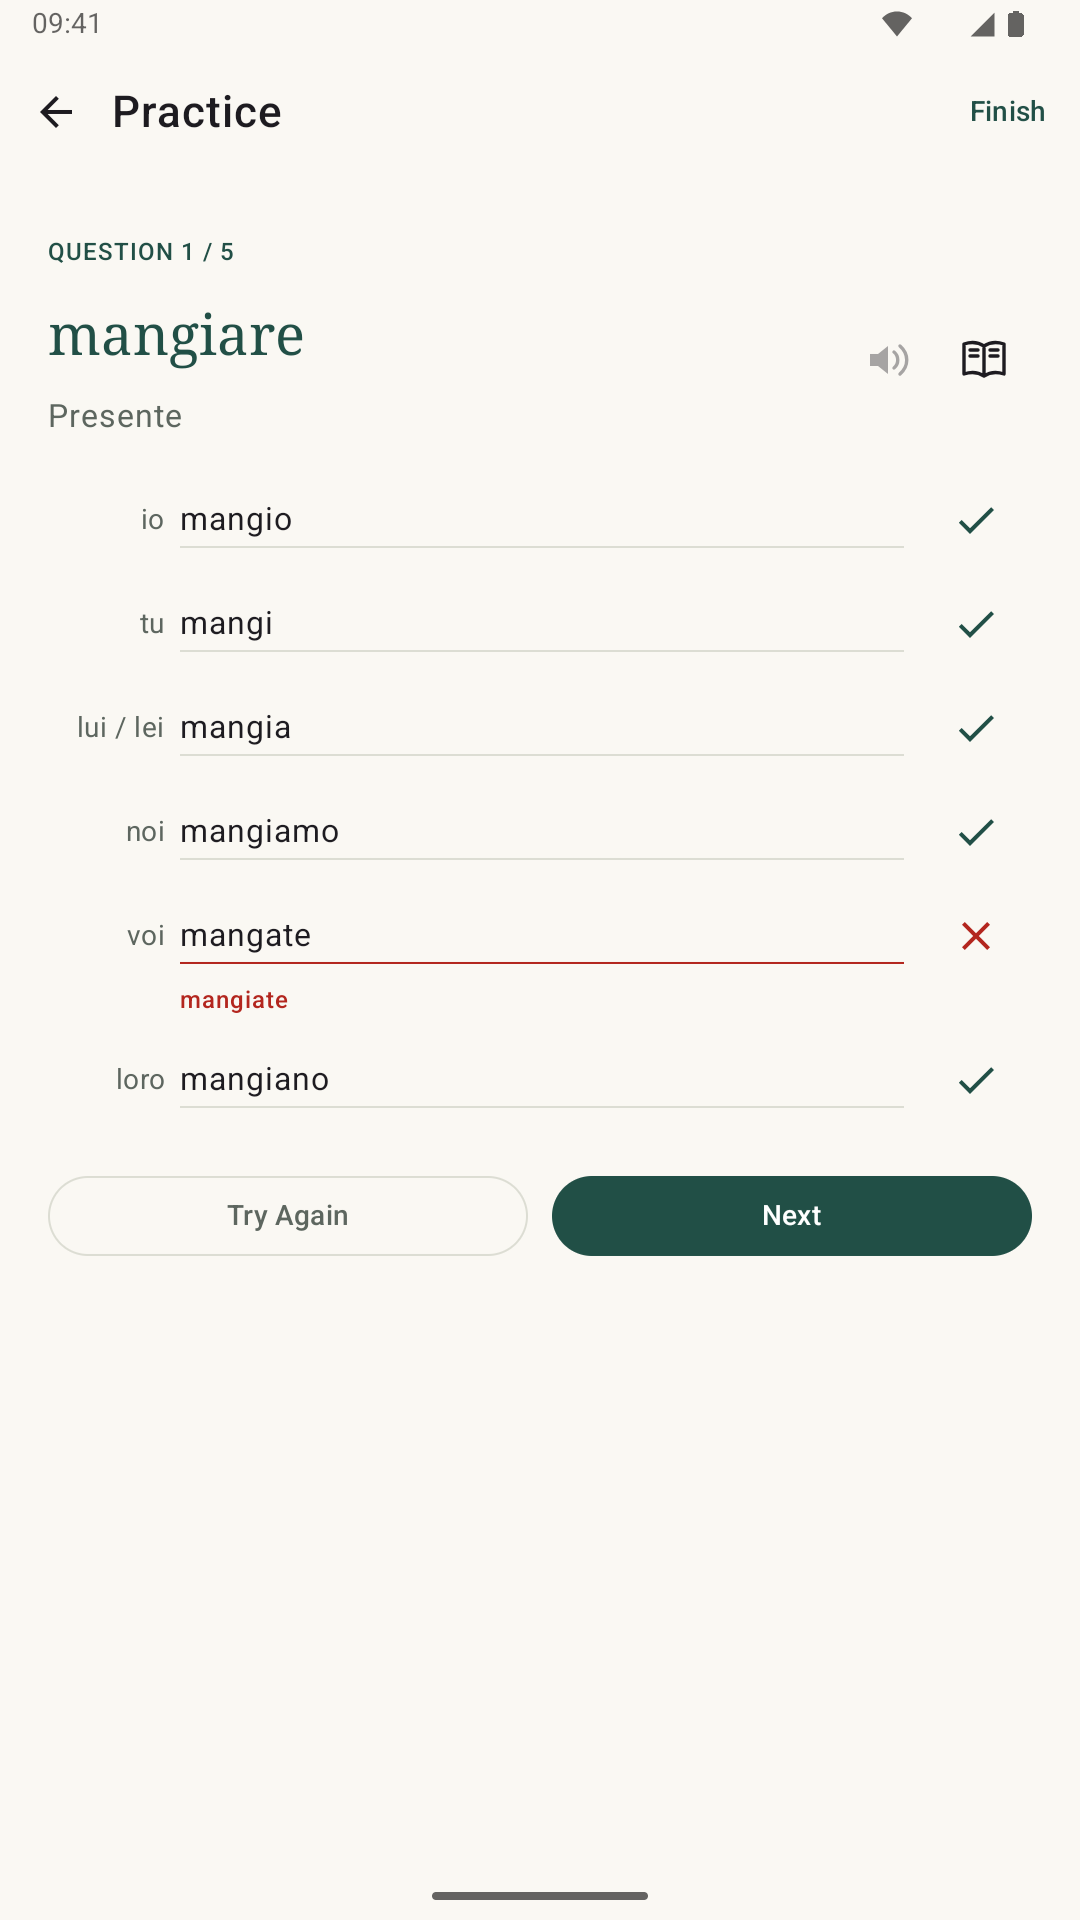
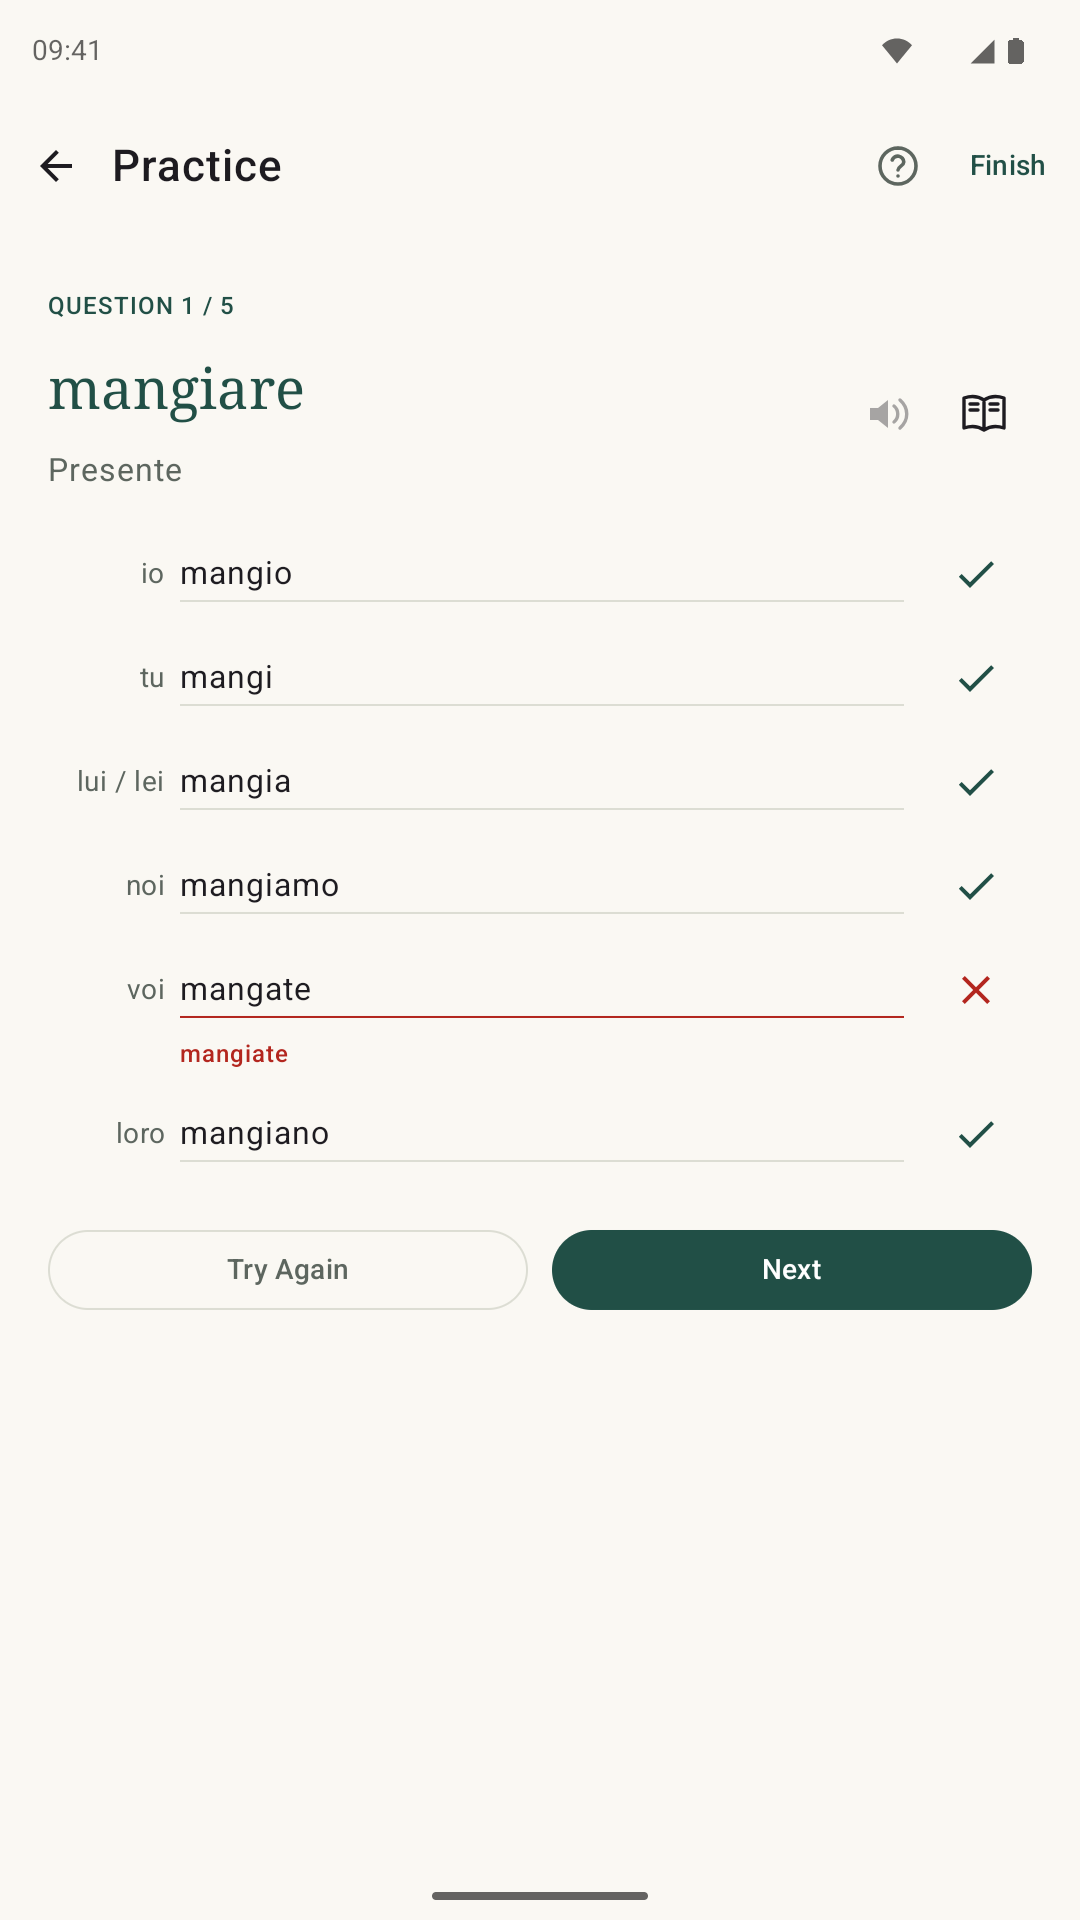
Refresh Conjugator website

diff --git a/index.html b/index.html
@@ -3,53 +3,84 @@
 <head>
   <meta charset="utf-8">
   <meta name="viewport" content="width=device-width, initial-scale=1">
-  <meta name="description" content="Privacy policy for Conjugator - Italian Verbs.">
+  <meta name="description" content="Leeman Labs, maker of Conjugator — an offline Italian verb reference and practice app for Android. Explore the app and get support.">
   <meta name="theme-color" content="#214f46">
-  <link rel="canonical" href="https://tleeman.github.io/conjugator-privacy/">
-  <link rel="icon" type="image/png" href="../assets/icon.png">
-  <link rel="stylesheet" href="../styles.css">
-  <title>Privacy Policy | Conjugator - Italian Verbs</title>
+  <meta property="og:title" content="Conjugator: Offline Italian Verb Practice | Leeman Labs">
+  <meta property="og:description" content="Italian verbs. A little clearer, every day. Meet Conjugator, your offline Italian verb companion for Android.">
+  <meta property="og:type" content="website">
+  <meta property="og:url" content="https://tleeman.github.io/">
+  <meta property="og:image" content="https://tleeman.github.io/assets/icon.png">
+  <link rel="canonical" href="https://tleeman.github.io/">
+  <link rel="icon" type="image/png" href="assets/icon.png">
+  <link rel="stylesheet" href="styles.css">
+  <meta name="google-site-verification" content="Qju-MWoeeO31oDzUV84XsKwe7bpOScqYTNpeeteQqgk" />
+  <title>Conjugator: Offline Italian Verb Practice | Leeman Labs</title>
 </head>
 <body>
   <a class="skip-link" href="#main">Skip to content</a>
   <header class="site-header wrap">
-    <a class="wordmark" href="../" aria-label="Leeman Labs home">Leeman Labs<span class="brand-dot" aria-hidden="true"></span></a>
-    <nav aria-label="Main navigation"><a href="../#conjugator">Our app</a><a href="../#support">Support</a></nav>
+    <a class="wordmark" href="./" aria-label="Leeman Labs home">Leeman Labs<span class="brand-dot" aria-hidden="true"></span></a>
+    <nav aria-label="Main navigation"><a href="#conjugator">Our app</a><a href="#support">Support</a></nav>
   </header>
-<main id="main" class="wrap">
-<article class="policy">
-  <h1>Privacy Policy</h1>
-  <p><strong>Conjugator - Italian Verbs</strong> · Leeman Labs</p>
-  <p class="updated">Last updated: 5 November 2026</p>
-
-  <p>This policy explains how Conjugator - Italian Verbs handles information when you use the Android app. For privacy questions, contact <a href="mailto:leemanlabs.apps@gmail.com">leemanlabs.apps@gmail.com</a>.</p>
-
-  <h2>Learning data and settings</h2>
-  <p>The app stores learning progress, practice records, settings, reminder preferences, and purchase entitlement information in its private storage on your device. This information supports practice, progress tracking, reminders, and access to purchased features. The app does not upload your learning data to Leeman Labs or provide cloud synchronisation. App backup and device-transfer backup are disabled in the app configuration.</p>
-
-  <h2>Google Play purchases</h2>
-  <p>Optional Premium purchases are processed by Google Play under Google's terms and <a href="https://policies.google.com/privacy">privacy policy</a>. Google handles payment details; the app does not receive your card number or bank details. The app receives purchase information, including a purchase token and signed purchase record, to verify, acknowledge, and restore Premium ownership. Verification and entitlement storage take place on your device; purchase acknowledgement and ownership checks use Google Play. Leeman Labs does not operate a purchase-verification server for the app.</p>
-
-  <h2>Pronunciation and reminders</h2>
-  <p>Pronunciation uses installed offline Italian voices through Android's text-to-speech service. The app does not record your voice or request microphone access. Optional practice reminders are scheduled locally on your device and use Android's notification permission where required.</p>
-
-  <h2>Advertising and analytics</h2>
-  <p>The app contains no advertising, does not use an Advertising ID, and includes no analytics or third-party crash-reporting SDKs. We do not sell your app data or upload your learning activity to advertising or analytics services.</p>
-
-  <h2>Retention, security, and deletion</h2>
-  <p>Local app data is retained until you remove it. Android's application sandbox restricts other ordinary apps from accessing the app's private storage. You can erase local data using Android Settings → Apps → Conjugator → Storage → Clear storage, or by uninstalling the app. This removes local learning progress and settings. Google Play may restore Premium ownership when you use the purchasing Google account; it does not restore your learning history.</p>
-  <p>Deleting local app data does not erase Google's purchase records or request a refund. Google's retention and deletion practices are governed by its own policies. The app has no separate Leeman Labs user account.</p>
-
-  <h2>Contacting us</h2>
-  <p>If you email us, we receive your email address and the information you include. We use this information to respond to your enquiry and retain it only as needed to handle the enquiry and meet applicable legal obligations. To request deletion of support correspondence, email <a href="mailto:leemanlabs.apps@gmail.com">leemanlabs.apps@gmail.com</a>.</p>
-
-  <h2>Intended audience</h2>
-  <p>The app is intended for learners aged 13 and over and is not directed at children under 13.</p>
-
-  <h2>Changes to this policy</h2>
-  <p>We may update this policy when the app or its data practices change. The latest version will be available on this page with an updated date.</p>
-</article>
-</main>
-  <footer class="site-footer wrap"><a class="wordmark" href="../">Leeman Labs<span class="brand-dot" aria-hidden="true"></span></a><p>Thoughtful tools. A little progress, every day.</p><a href="mailto:leemanlabs.apps@gmail.com">Contact us</a></footer>
+  <main id="main">
+    <section class="hero wrap" aria-labelledby="hero-title">
+      <div class="hero-copy">
+        <h1 id="hero-title">Italian verbs.<br>A little clearer,<br><em>every day.</em></h1>
+        <p>Meet Conjugator, your offline Italian verb companion. A verb reference and practice app for Android to help you look up a form, understand a tense, and practice what you learn.</p>
+        <p>Complete reference free. Optional one-time Premium purchase. No subscription.</p>
+        <div class="hero-actions">
+          <a class="store-badge" href="https://play.google.com/store/apps/details?id=com.leemanlabs.conjugator.it"><img src="assets/google-play-badge.png" width="646" height="250" alt="Get it on Google Play"></a>
+        </div>
+      </div>
+      <figure class="mascot">
+        <img src="assets/conjugator.png" width="1280" height="1280" alt="ConjuGATOR, the Conjugator mascot: a smiling mint-green crocodile wearing an Italian tricolour neckerchief.">
+        <figcaption>A friendly face for the tricky forms.</figcaption>
+      </figure>
+    </section>
+    <section class="app-section" id="conjugator" aria-labelledby="app-title">
+      <div class="wrap">
+        <div class="section-intro">
+          <h2 id="app-title">Look up the forms.<br>Practice them.</h2>
+          <div><p>Conjugator brings Italian verb reference and practice together in one quiet corner of your phone. English explanations help the Italian make sense.</p><p>Made by Leeman Labs. Designed to work offline.</p></div>
+        </div>
+        <div class="app-story">
+          <figure class="app-shot"><img src="assets/practice.png" width="1080" height="1920" loading="lazy" alt="Conjugator practice screen showing answers for mangiare, with a correction and an option to try again."><figcaption>Practice with clear, immediate feedback.</figcaption></figure>
+          <div class="story-copy">
+            <h3>Italian verbs,<br>one table at a time.</h3>
+            <dl>
+              <div><dt>1000 verbs. 14 tenses.</dt><dd>Explore 1000 Italian verbs across 14 tenses, with conjugations, examples and English explanations.</dd></div>
+              <div><dt>Review verbs over time</dt><dd>Adaptive practice uses spaced repetition to bring verbs back for review over time, helping you remember what you learn. Choose Manual practice when you want to work through selected verb groups and tenses.</dd></div>
+              <div><dt>Free reference. Optional Premium.</dt><dd>The complete reference is free: all 1000 verbs and 14 tenses. Free practice includes the Essential 100 verbs in Presente and Passato prossimo. An optional one-time Premium purchase opens practice across all 1000 verbs and 14 tenses. No subscription.</dd></div>
+            </dl>
+          </div>
+        </div>
+        <div class="reference-story">
+          <div class="story-copy"><h3>Practice offline.<br>Keep progress private.</h3><p>No adverts. No app account. No analytics.</p><p>Your learning progress stays on your device. Look things up and keep practicing offline, whether you have five minutes at home or a quiet moment on the move.</p><a class="text-link" href="conjugator-privacy/">Read the app privacy policy <span aria-hidden="true">&rarr;</span></a></div>
+          <figure class="app-shot"><img src="assets/adaptive-setup.png" width="1080" height="1920" loading="lazy" alt="Premium Adaptive Practice setup with all four verb groups and the Presente and Passato prossimo tenses selected."><figcaption>Choose your verb groups and tenses with Premium.</figcaption></figure>
+        </div>
+      </div>
+    </section>
+    <section class="app-download wrap" aria-labelledby="download-title">
+      <div><h2 id="download-title">Make time for Italian verbs.</h2><p>Look up all 1000 verbs in all 14 tenses free, and practice the Essential 100 in Presente and Passato prossimo. Get Conjugator for Android and make time for a little practice.</p></div>
+      <a class="store-badge" href="https://play.google.com/store/apps/details?id=com.leemanlabs.conjugator.it"><img src="assets/google-play-badge.png" width="646" height="250" loading="lazy" alt="Get it on Google Play"></a>
+    </section>
+    <section class="support wrap" id="support" aria-labelledby="support-title">
+      <div><h2 id="support-title">A question?<br>We’re here.</h2><p>For help with Conjugator, feedback, or questions about Leeman Labs, get in touch.</p><a class="contact-link" href="mailto:leemanlabs.apps@gmail.com">leemanlabs.apps@gmail.com</a><p class="support-note">For app support, please include your app version, Android version and a short description of what happened.</p></div>
+      <div class="support-details"><h3>Good to know</h3><details><summary>Is Conjugator free?</summary><p>Yes. The complete reference is free, with conjugations, examples and English explanations for all 1000 verbs and 14 tenses. Both Adaptive and Manual Practice are free for the Essential 100 verbs in Presente and Passato prossimo. An optional one-time Premium purchase opens practice across all 1000 verbs and 14 tenses. No subscription.</p></details><details><summary>Does it need an internet connection?</summary><p>Reference and practice work offline, including Premium practice once your purchase is confirmed. Google Play needs an internet connection to buy Premium or restore it after reinstalling or changing devices. Pronunciation works offline once an Italian voice is installed; downloading voice data may need a connection.</p></details><details><summary>Where is my learning progress stored?</summary><p>On your device, in the app’s private storage. There’s no cloud sync. Clearing app storage or uninstalling removes your learning progress and settings.</p></details><details><summary>Will Premium and my progress transfer to another device?</summary><p>Premium can be restored through Google Play using the Google account you purchased it with and an internet connection. Conjugator checks ownership automatically when you open the app or the Premium sheet; you do not need to buy it again.</p><p>Learning progress and settings stay on the original device. There is no cloud sync or device-transfer backup, so restoring Premium does not restore your learning history. Uninstalling the app or clearing its storage removes that history.</p></details><details><summary>How do I enable Italian pronunciation?</summary><p>Conjugator uses an installed offline Italian text-to-speech voice. In the app, open Settings and find Pronunciation. Use the Android speech settings option to install Italian voice data through your speech engine, then return to Conjugator to choose and preview a voice. The available voices and Android settings vary by device and speech engine.</p><p>Downloading voice data may need an internet connection. Once an offline Italian voice is installed, pronunciation works offline. Reference and practice remain available without a voice.</p></details></div>
+    </section>
+  </main>
+  <footer class="site-footer wrap">
+    <span class="wordmark">Leeman Labs<span class="brand-dot" aria-hidden="true"></span></span>
+    <p>Thoughtful tools. A little progress, every day.</p>
+    <a href="conjugator-privacy/">Conjugator privacy policy</a>
+    <a class="instagram-link" href="https://www.instagram.com/conjugator.it/" aria-label="@conjugator.it on Instagram">
+      <svg width="18" height="18" viewBox="0 0 24 24" fill="none" stroke="currentColor" stroke-width="2" aria-hidden="true">
+        <rect x="3" y="3" width="18" height="18" rx="5" />
+        <circle cx="12" cy="12" r="4" />
+        <circle cx="17.5" cy="6.5" r="1" fill="currentColor" stroke="none" />
+      </svg>
+      <span>@conjugator.it</span>
+    </a>
+  </footer>
 </body>
 </html>
